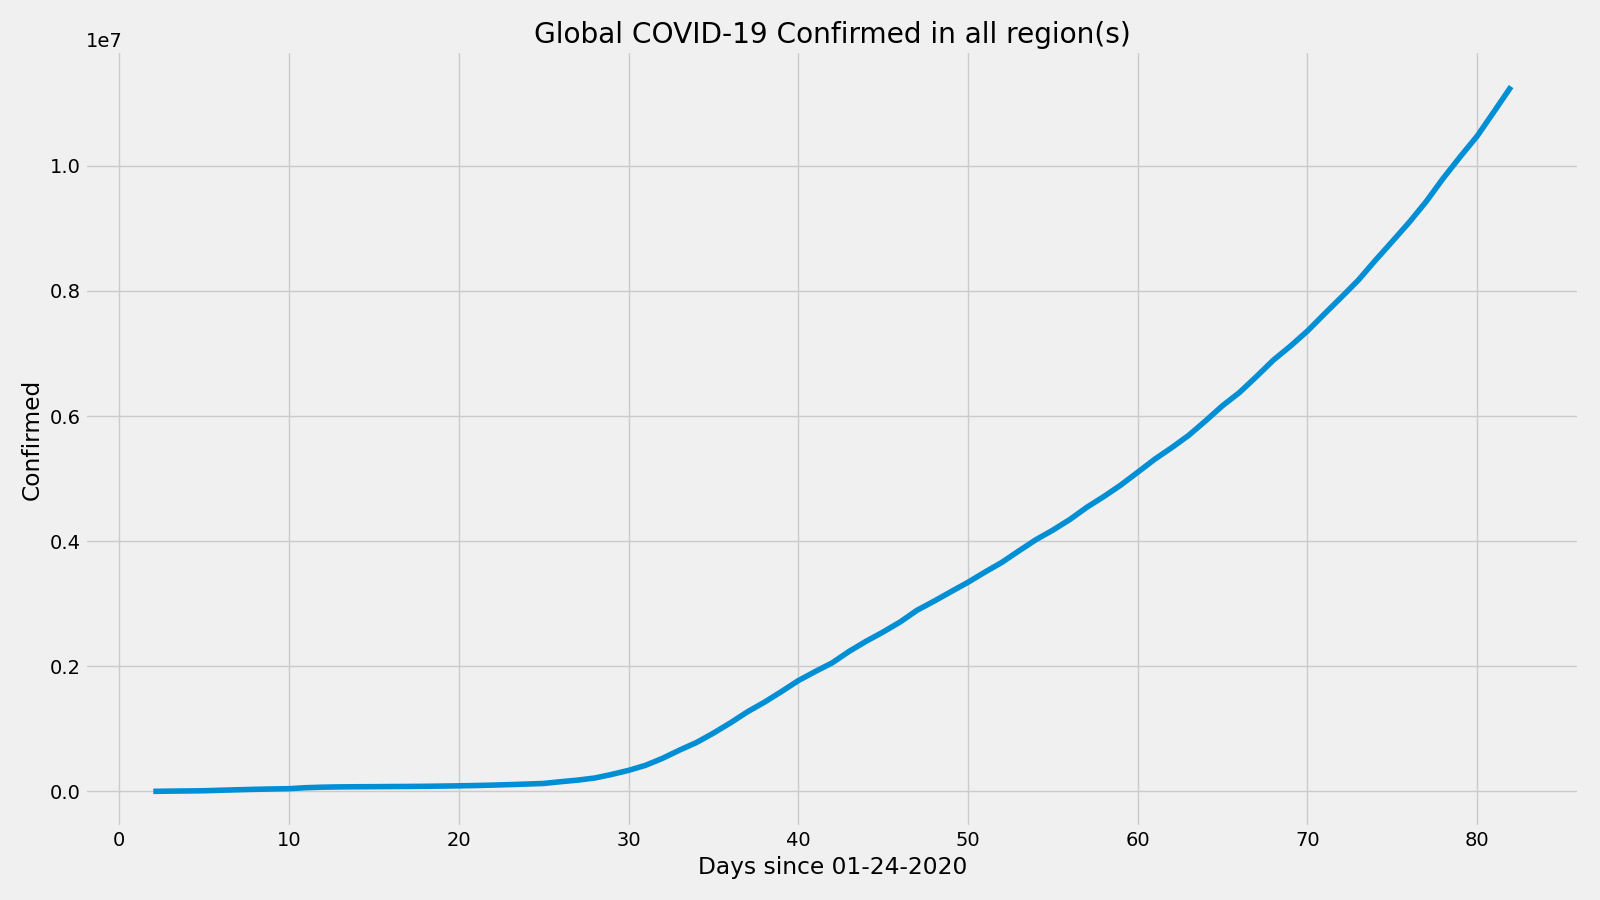
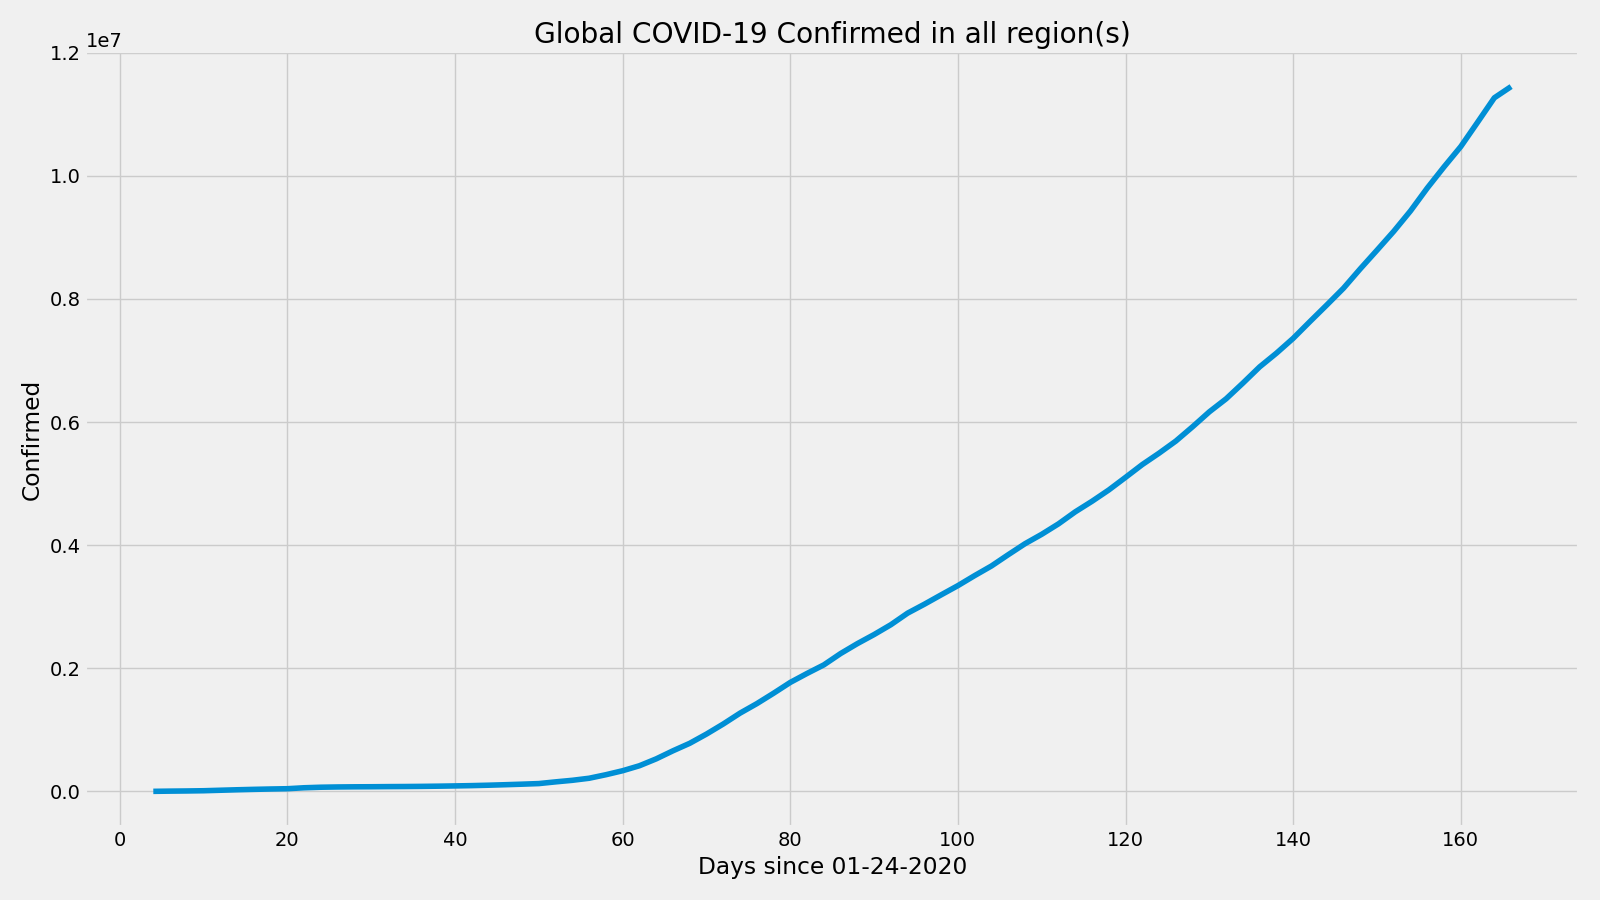
Updated x-axis

diff --git a/corona_tracker.py b/corona_tracker.py
@@ -12,7 +12,7 @@ plt.rcParams["figure.figsize"] = [16,9]
 
 #runner path
 
-path = str(os.getcwd()) + "/COVID-19/csse_covid_19_data/csse_covid_19_daily_reports/"
+path = str(os.getcwd()) + "/COVID-19/COVID-19/csse_covid_19_data/csse_covid_19_daily_reports/"
 
 class coronaTracker:
     def __init__(self, isGlobal, isLight = True):
@@ -22,7 +22,7 @@ class coronaTracker:
         self.isGlobal = isGlobal
         self.dailyReports = {}
 
-        git.Git(str(os.getcwd()) + "/COVID-19").pull("https://github.com/CSSEGISandData/COVID-19.git")
+        git.Git(str(os.getcwd()) + "/COVID-19/COVID-19").pull("https://github.com/CSSEGISandData/COVID-19.git")
         for file in os.listdir(path):
             if file[0] != "R":
                 if file[:-4] not in list(self.dailyReports.keys()):
@@ -32,7 +32,7 @@ class coronaTracker:
     # work in progress
     def updateDataset(self):
         # get daily COVID data from Johns Hopkins github
-        git.Git(str(os.getcwd()) + "/COVID-19").pull("https://github.com/CSSEGISandData/COVID-19.git")
+        git.Git(str(os.getcwd()) + "/COVID-19/COVID-19").clone("https://github.com/CSSEGISandData/COVID-19.git")
         for file in os.listdir(path):
             if file[0] != "R":
                 if file[:-4] not in list(self.dailyReports.keys()):
@@ -65,7 +65,7 @@ class coronaTracker:
                         listDate.append(date)
 
                     listNumericalDate.append(currentNumericalDate)
-                    currentNumericalDate += 1
+                    currentNumericalDate += 2
             # graph data
             plt.clf()
             plt.plot(listNumericalDate, listMetricPerDay)
